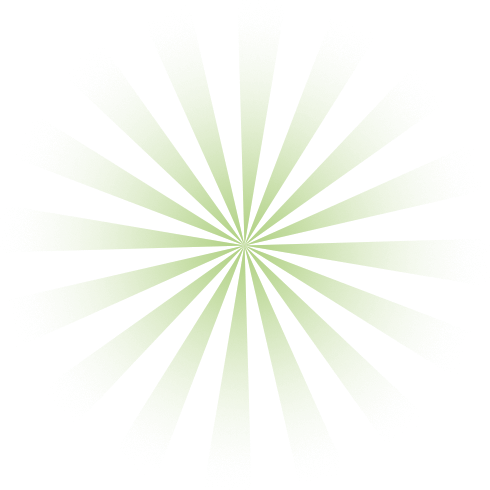
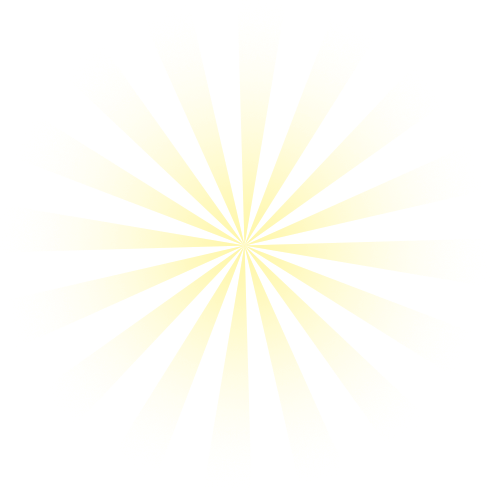
added input labels and changed ray color

Changed region(s): [[0.2143, 0.2143, 0.7653, 0.7653]]

diff --git a/src/App.vue b/src/App.vue
@@ -13,13 +13,18 @@
 </div>
 
 <div class="controls">
-  <input type="checkbox" v-model="speedy" />
+  <label for="speedup">Speed up roulette</label>
+  <input type="checkbox" id="speedup" v-model="speedy" />
   <a class="button" href="https://vglist.co/settings/oauth/authorize?client_id=zLV--juCNrcmhgrWKMU7-Im0_PndSrqbOrp63I1D8jE&redirect_uri=https://tolocalhost.com&response_type=code&scope=read">
     Authorize
   </a>
   <button class="button is-info is-large" @click="pickRandom">SPIN</button>
-  <input type="checkbox" v-model="unplayedOnly" />
-  <input type="checkbox" v-model="noCompleted" />
+  
+  <input type="checkbox" id="unplayedfilter" v-model="unplayedOnly" />
+  <label for="unplayedfilter">Only unplayed</label>
+  
+  <input type="checkbox" id="completedfilter" v-model="noCompleted" />
+  <label for="completedfilter">No completed</label>
 </div>
 
 </template>
@@ -217,8 +222,8 @@ body {
 /* To prevent the rays overlaying it */
 input {
   position: relative;
-  z-index: 1;
 }
+
 /* keyframes for animation;  simple 0 to 360 */
 @keyframes spin {
 	from { transform: rotate(0deg) scale(2); }
@@ -228,6 +233,7 @@ input {
 .rays	{ /* with animation properties */
 	background: url('./assets/rays-main.png') no-repeat center; 
 	position: absolute;
+  z-index: -1;
   height: 100%;
   width: 100%;
 
